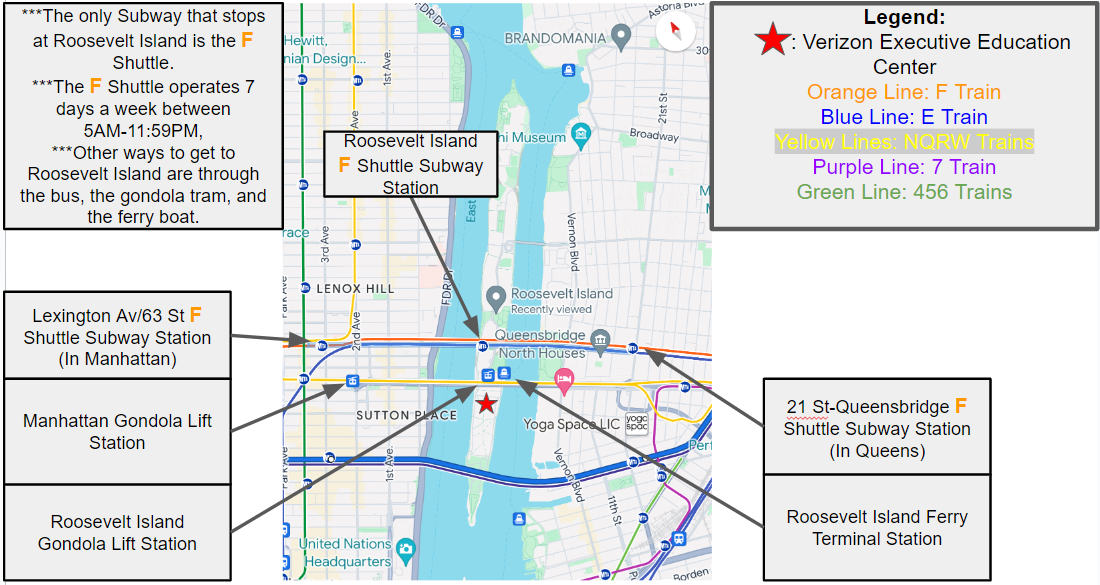
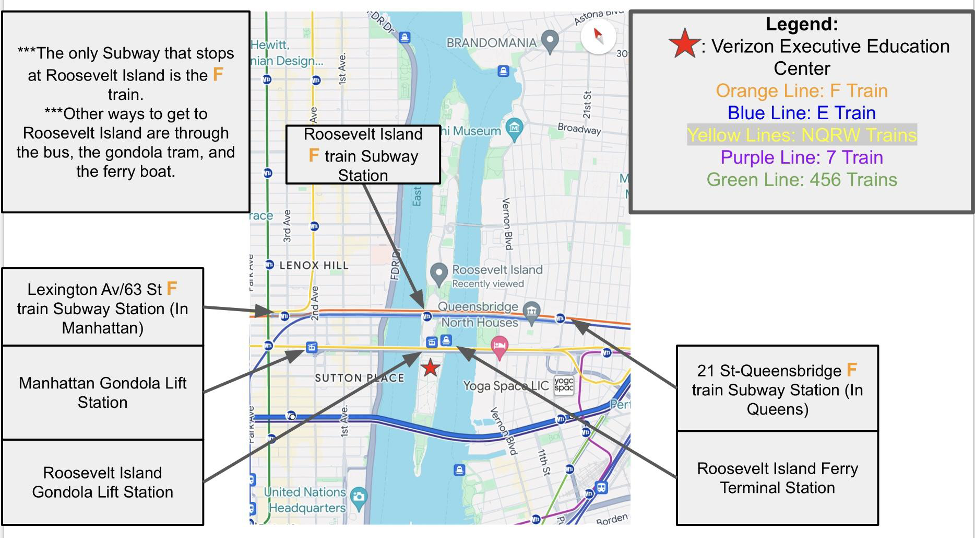
update plan your trip page

Changed region(s): [[0.0, 0.0, 1.0, 1.0]]

diff --git a/templates/content/travel.md b/templates/content/travel.md
@@ -14,10 +14,6 @@ CHIL 2024 will be held at **Cornell Tech **located at [2 West Loop Rd, New York,
     </div>
     
     <div class="image-wrapper">
-        <img src="static/images/attend/travel_2024_image2.png" class="custom-img" alt="Roosevelt Island Shuttle Detail"/>
-    </div>
-    
-    <div class="image-wrapper">
         <img src="static/images/attend/travel_2024_image3.png" class="custom-img" alt="Roosevelt Island Points of Interest"/>
     </div>
 </div>
@@ -116,10 +112,15 @@ Coffee and lunch will be provided during conference days. Additional nearby brea
 
 On Roosevelt Island (By walking):
 
-* Soups, pasta, sandwiches (2 minute walk): [Anything At All](https://maps.app.goo.gl/7q58L1h3W8VMJgHm6)
-* Irish and American (6 minute walk): [Granny Annie's Bar & Kitchen](https://maps.app.goo.gl/uNSm4SmTYsJrKkrR6)
+* Soups, pasta, sandwiches, breakfast with vegan/vegetarian options (2 minute walk): [Anything At All](https://maps.app.goo.gl/7q58L1h3W8VMJgHm6)
+* Irish and American with vegetarian options (6 minute walk): [Granny Annie's Bar & Kitchen](https://maps.app.goo.gl/uNSm4SmTYsJrKkrR6)
 * Italian pasta and pizza (7 minute walk): [Piccolo Trattoria Ristorante Pizzeria](https://maps.app.goo.gl/bD1VyD8Tg4L6jevx5) 
 * Grocery store for everyday items (11 minute walk): [Wholesome Factory](https://maps.app.goo.gl/ygCzA6zPqF3r3qrY8) 
+
+In Manhattan (using Subway):
+
+* Kosher + Vegetarian options: [Abaita - Kosher Dairy](https://www.google.com/maps/place/Abaita+-+Kosher+Dairy/@40.7557,-73.9720694,16z/data=!3m1!4b1!4m6!3m5!1s0x89c258fd278f6211:0x847b53f5c50e87a0!8m2!3d40.7557!4d-73.9720694!16s%2Fg%2F11hbqlx36l?entry=ttu)
+* Halal food cart locations: [4 Guys Halal Food](https://www.google.com/maps/place/4+Guys+Halal+Food/@40.757962,-73.9708356,17z/data=!3m1!4b1!4m6!3m5!1s0x89c2591b84c016c9:0x1238ce1ecb1db7f!8m2!3d40.757962!4d-73.9708356!16s%2Fg%2F11fhl4hzr_?entry=ttu) , [Empire Halal](https://www.google.com/maps?q=Empire+Halal,+1107+3rd+Ave,+New+York,+NY+10065&ftid=0x89c258e91926aaab:0x975f307ea5093946&entry=gps&lucs=,94224825,94227247,94227248,47071704,47069508,94218641,94203019,47084304,94208458,94208447&g_ep=CAISDTYuMTIxLjEuNjg0ODAYACCs3wEqWiw5NDIyNDgyNSw5NDIyNzI0Nyw5NDIyNzI0OCw0NzA3MTcwNCw0NzA2OTUwOCw5NDIxODY0MSw5NDIwMzAxOSw0NzA4NDMwNCw5NDIwODQ1OCw5NDIwODQ0N0ICVVM%3D) , [The Twins Halal Food](https://www.google.com/maps?q=The+Twins+Halal+Food,+York+Avenue+%26,+E+67th+St,+New+York,+NY+10065&ftid=0x89c2598d9cf1b335:0x52831199fa8d399c&entry=gps&lucs=,94224825,94227247,94227248,47071704,47069508,94218641,94203019,47084304,94208458,94208447&g_ep=CAISDTYuMTIxLjEuNjg0ODAYACCenQoqWiw5NDIyNDgyNSw5NDIyNzI0Nyw5NDIyNzI0OCw0NzA3MTcwNCw0NzA2OTUwOCw5NDIxODY0MSw5NDIwMzAxOSw0NzA4NDMwNCw5NDIwODQ1OCw5NDIwODQ0N0ICVVM%3D)
 
 <br />
 ## LOCAL POINTS OF INTEREST
